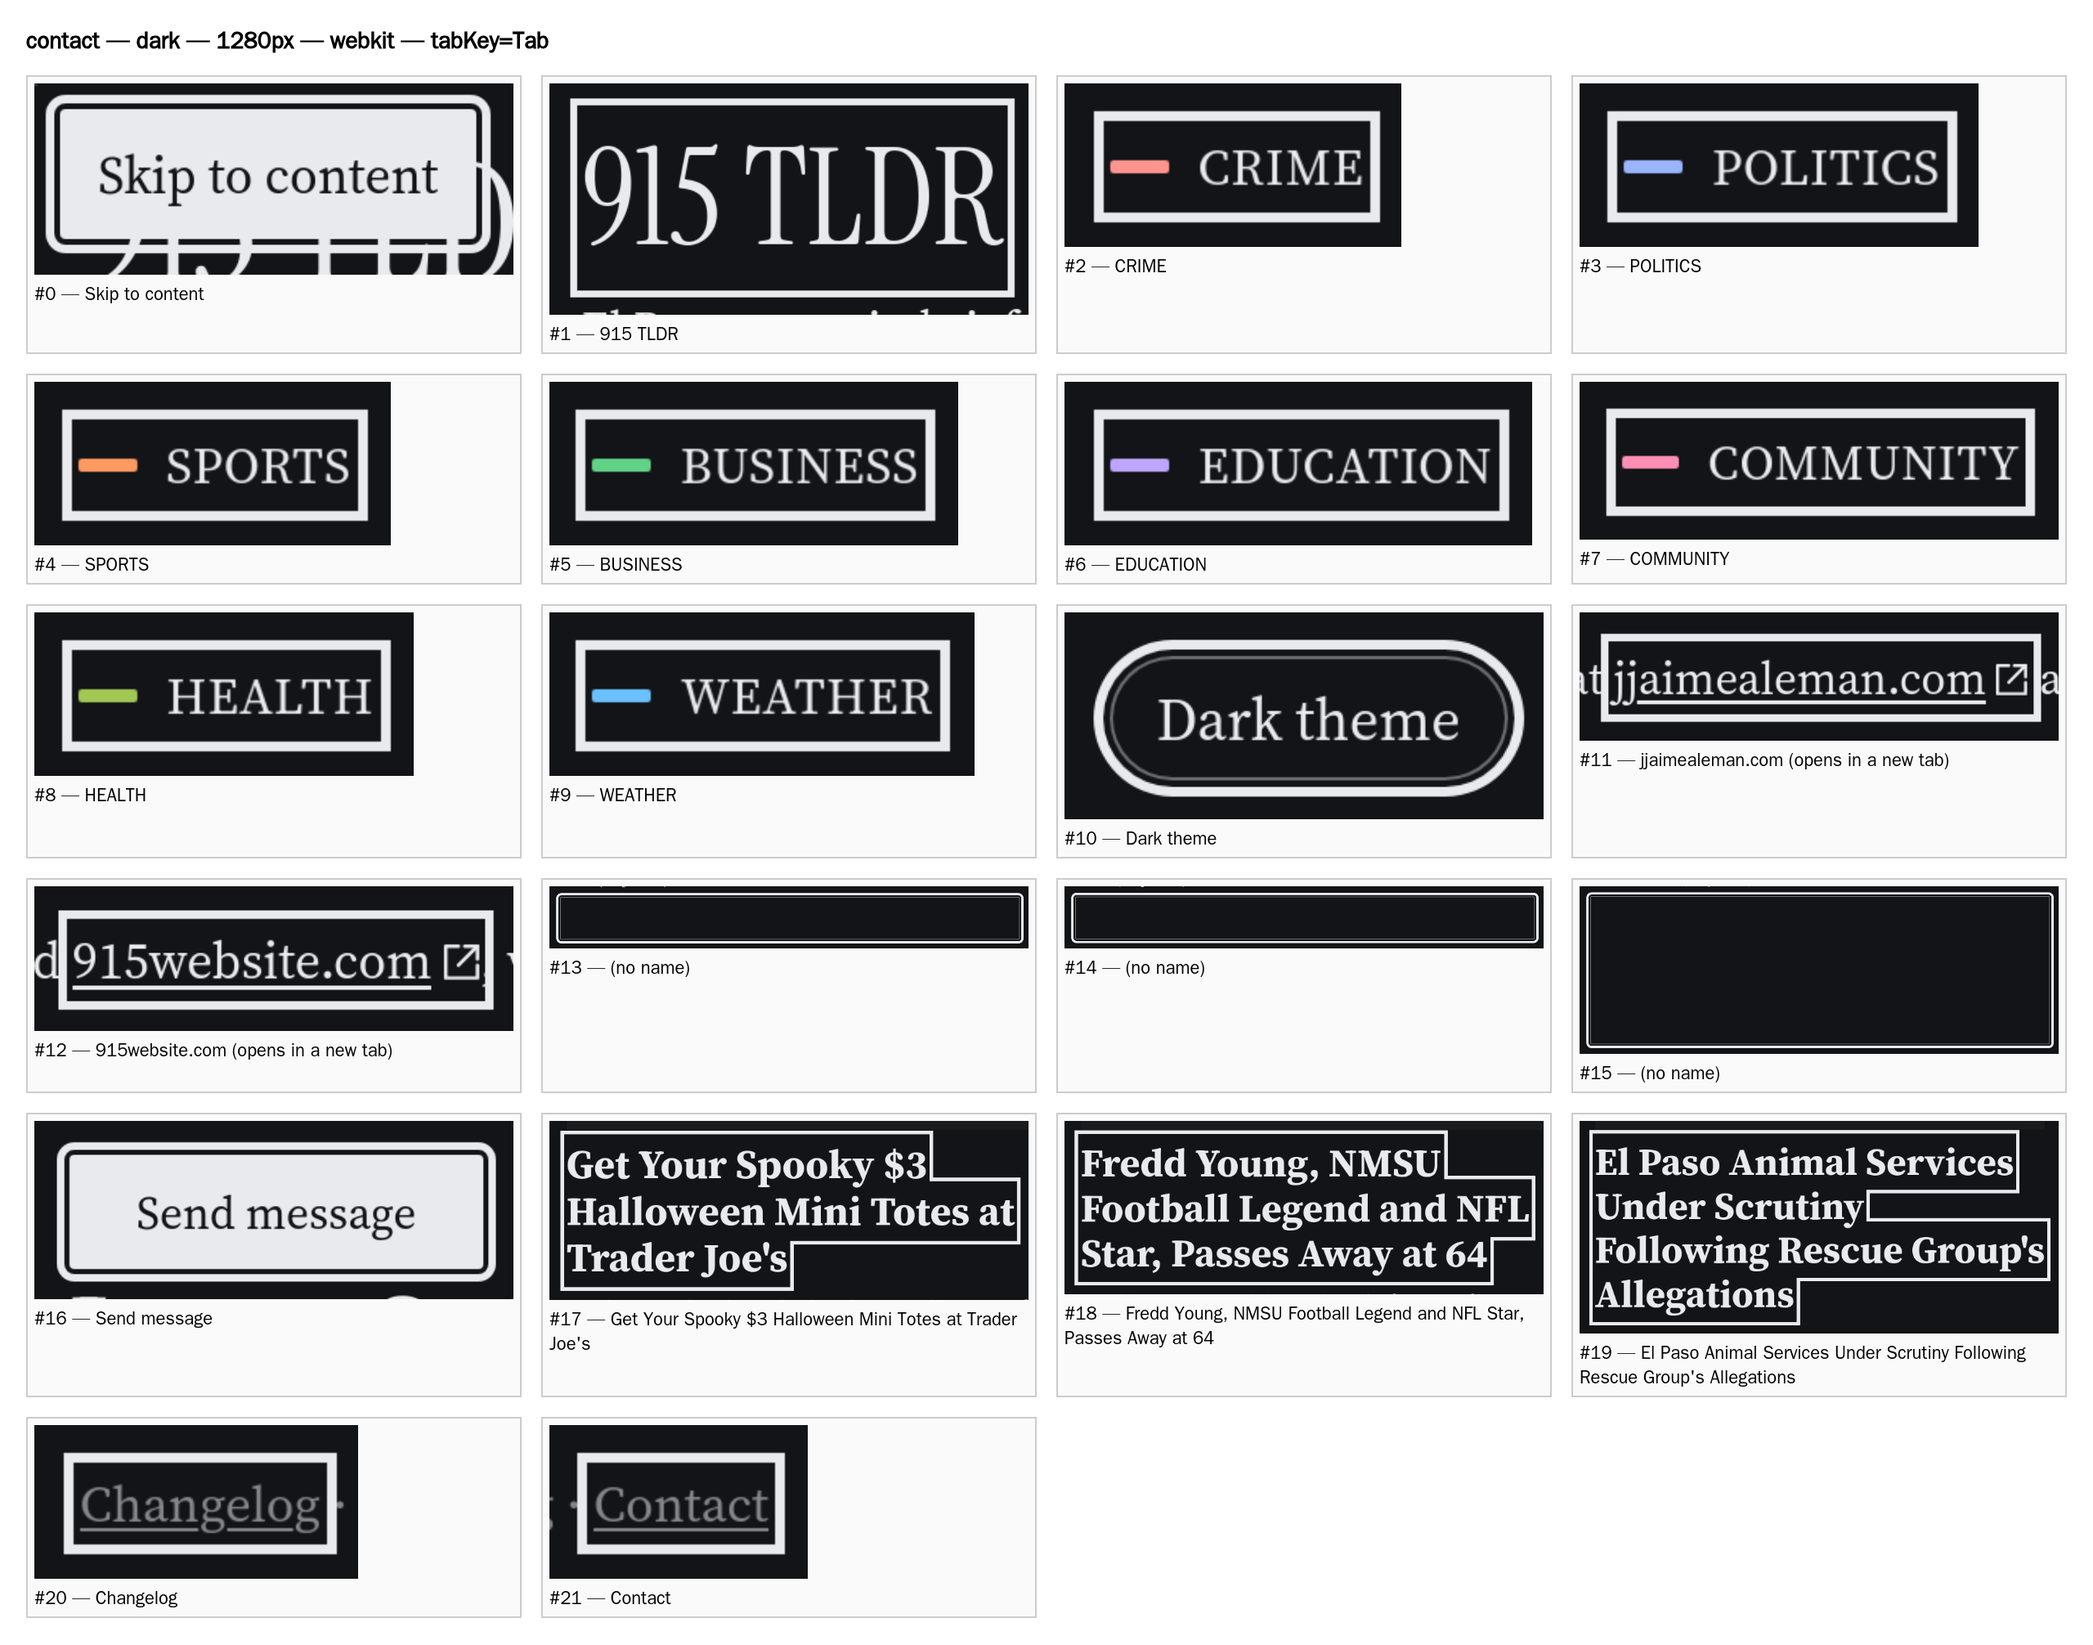
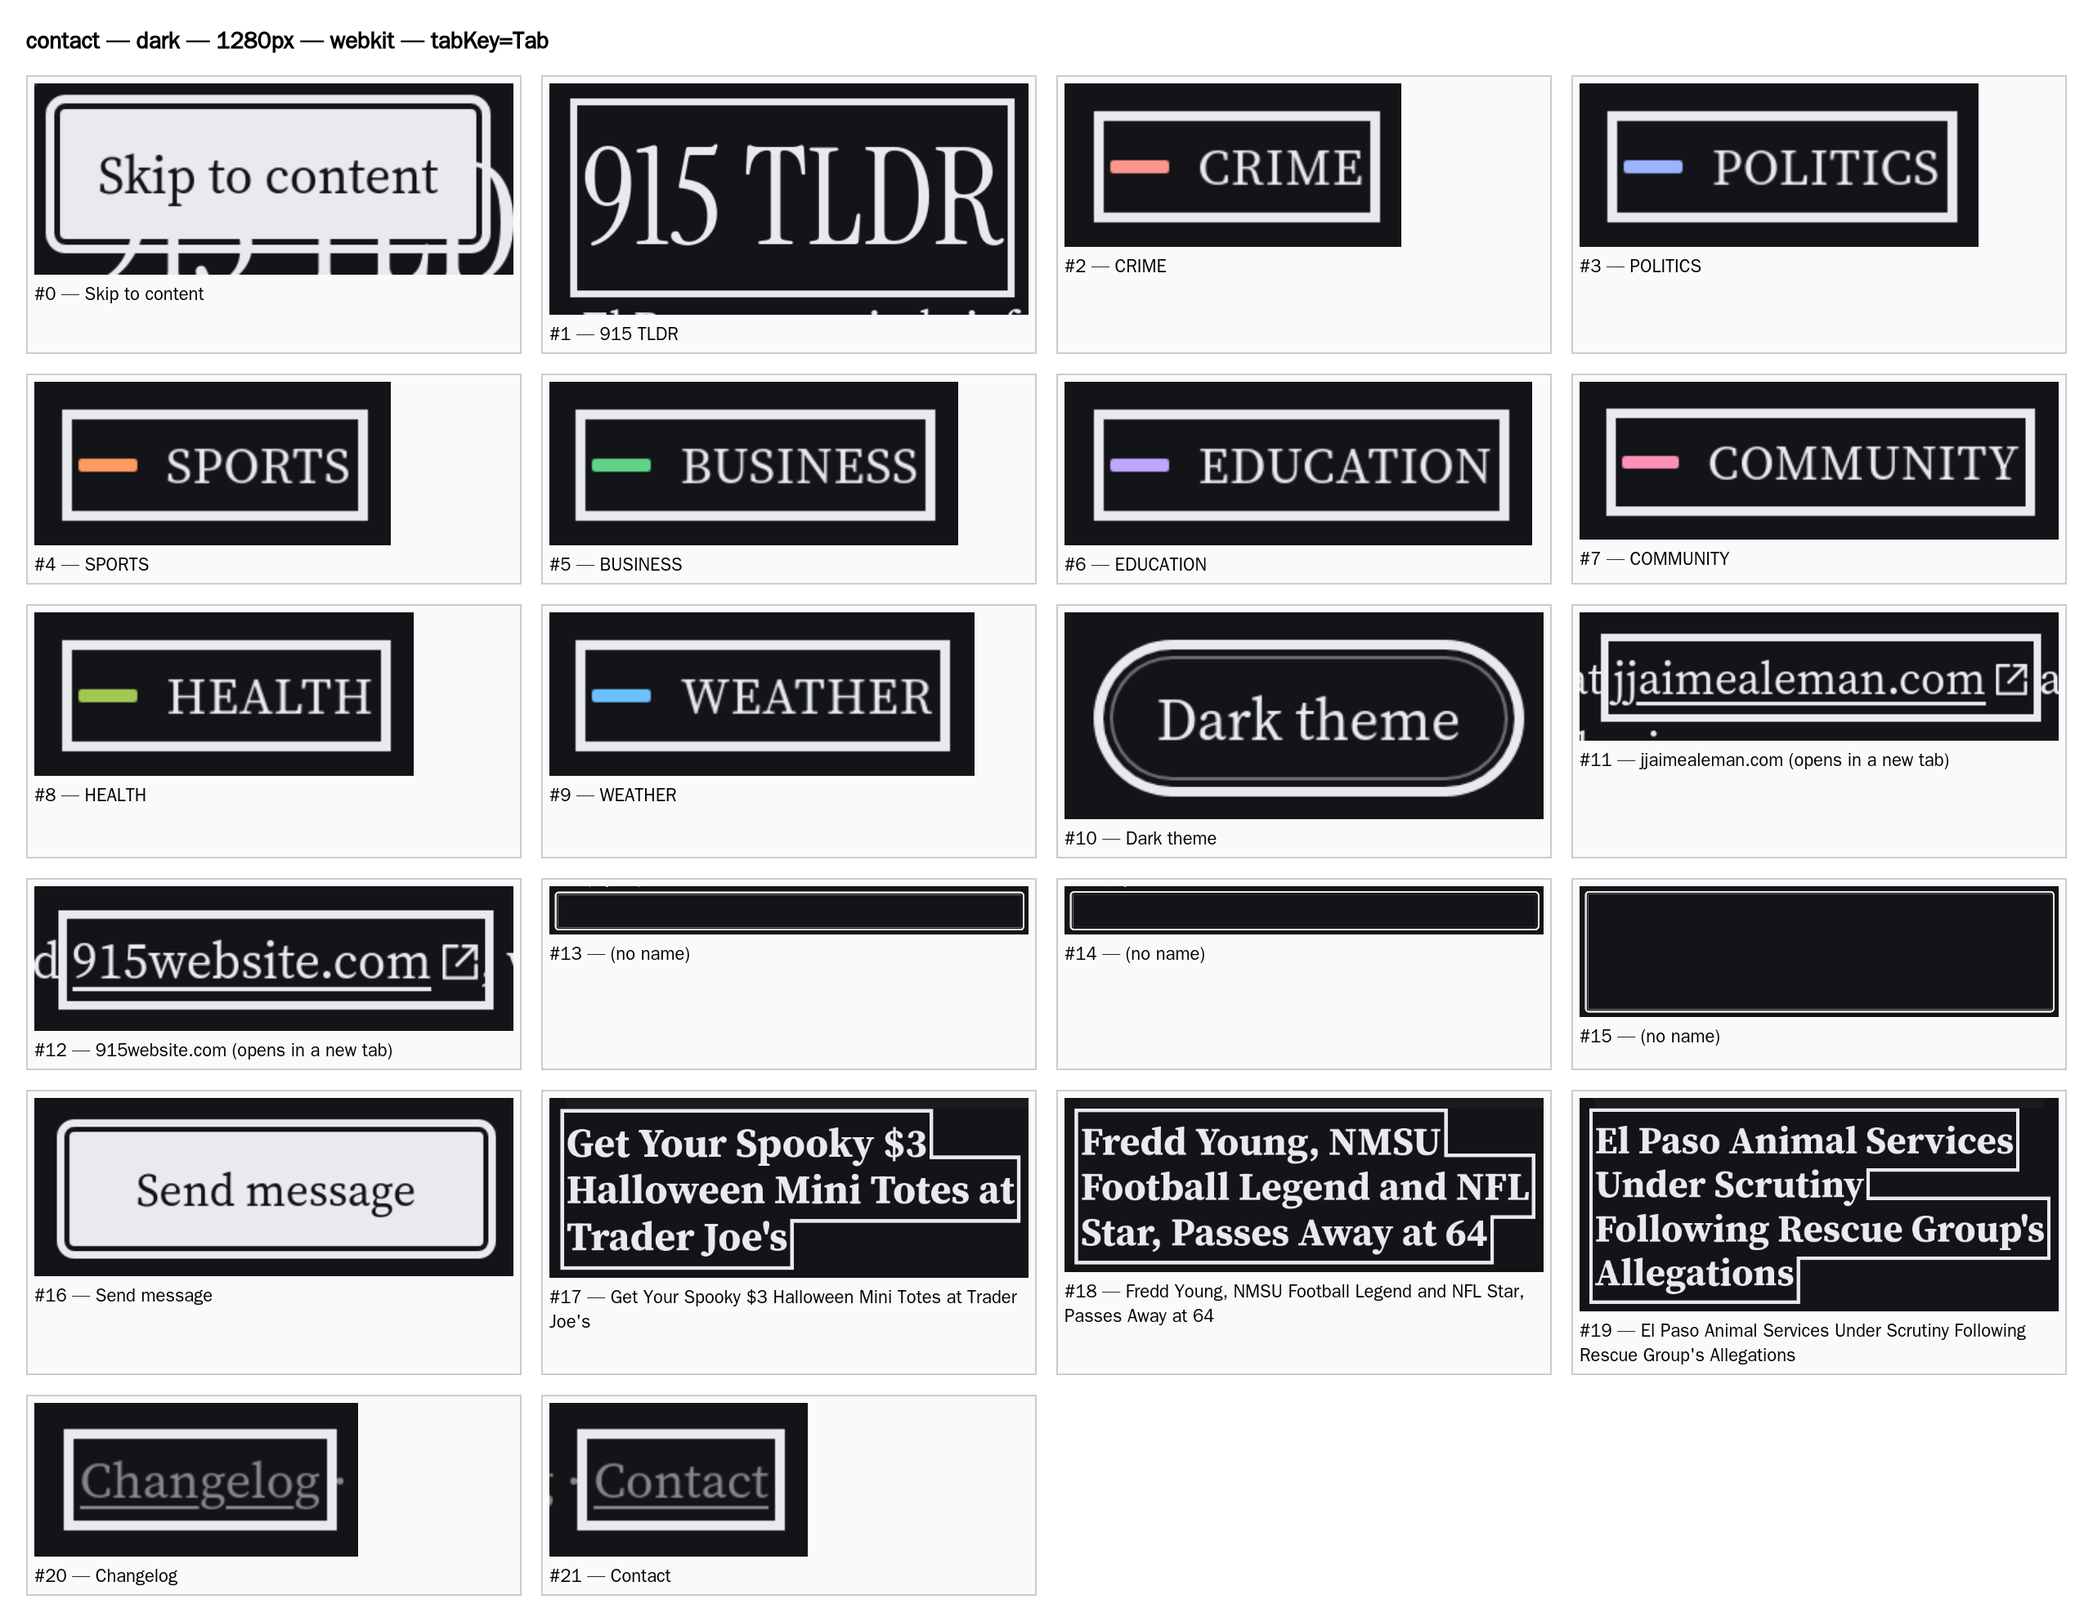
feat(01-20): contact page centred, full width at tablet, spacing bug fixed (revision request 5, Task 2)
- contact.html: h1, intro, links and form wrapped in div[data-contact-column],
  content and order byte-identical.
- style.css: new --column-narrow: 44rem token; [data-contact-intro] and
  form[data-contact-form] drop their base --measure max-width (full width
  below 64em, contact part of revision request 7); [data-contact-column] is
  centred with margin-inline:auto at >=64em only (width is in rem, so the
  01-07 ch/em-centring CLS rule does not apply); new
  [data-contact-column] + [data-grid-heading] rule adds space-7 top margin,
  fixing the Send-message-touches-Latest-Stories spacing bug at every width.
- layout.spec.ts: new "layout: contact" block proving the >=32px button/
  heading gap at all five widths, centring within 1px at >=1024px, full
  width at 320/768px, both engines.
- Measured real geometry confirms centring: column width matches 44rem
  exactly at the resolved root font-size (788.5px @1280px, 792.0px @1920px),
  left/right gaps equal in both themes/engines, button-to-heading gap ~54px.

diff --git a/design/tests/layout.spec.ts b/design/tests/layout.spec.ts
@@ -294,3 +294,104 @@ test.describe('layout: changelog', () => {
     }
   }
 });
+
+/**
+ * Contact layout (revision request 5 — centred column and the
+ * Send-message/Latest-Stories spacing bug; the contact part of revision
+ * request 7 — full width at 768px).
+ */
+
+async function readContactLayout(page: Page) {
+  const base = await readLayout(page);
+  const extra = await page.evaluate(() => {
+    function rect(el: Element | null) {
+      if (!el) return null;
+      const r = el.getBoundingClientRect();
+      return { left: r.left, right: r.right, top: r.top, bottom: r.bottom };
+    }
+    const column = document.querySelector('[data-contact-column]');
+    const submit = document.querySelector('[data-contact-form] button[type="submit"]');
+    const gridHeading = document.querySelector('[data-grid-heading]');
+    return {
+      columnRect: rect(column),
+      submitRect: rect(submit),
+      gridHeadingRect: rect(gridHeading),
+    };
+  });
+  return { ...base, ...extra };
+}
+
+const CONTACT_BREAKPOINT = 1024; // 64em at the default 16px root the media query resolves against
+
+test.describe('layout: contact', () => {
+  for (const { width, theme } of COMBOS) {
+    test(`no horizontal page scroll @${width}px ${theme} @c1`, async ({ page }) => {
+      await openPage(page, 'contact', { theme, width, height: HEIGHT });
+      expect(
+        await hasHorizontalScroll(page),
+        `contact @${width}px ${theme}: unexpected horizontal page scroll`
+      ).toBe(false);
+    });
+
+    test(`"Latest Stories" sits at least 32px below the Send message button @${width}px ${theme} @c1`, async ({
+      page,
+    }) => {
+      await openPage(page, 'contact', { theme, width, height: HEIGHT });
+      const layout = await readContactLayout(page);
+      expect(layout.submitRect, `contact @${width}px ${theme}: submit button not found`).not.toBeNull();
+      expect(layout.gridHeadingRect, `contact @${width}px ${theme}: [data-grid-heading] not found`).not.toBeNull();
+      const gap = layout.gridHeadingRect!.top - layout.submitRect!.bottom;
+      expect(
+        gap,
+        `contact @${width}px ${theme}: gap between Send message bottom and Latest Stories top is ${gap}, expected >= 32`
+      ).toBeGreaterThanOrEqual(32);
+    });
+
+    if (width >= CONTACT_BREAKPOINT) {
+      test(`contact column is centred and capped at --column-narrow @${width}px ${theme} @c1`, async ({ page }) => {
+        await openPage(page, 'contact', { theme, width, height: HEIGHT });
+        const layout = await readContactLayout(page);
+        expect(layout.columnRect, `contact @${width}px ${theme}: [data-contact-column] not found`).not.toBeNull();
+        const col = layout.columnRect!;
+
+        const leftGap = col.left - layout.mainContentLeft;
+        const rightGap = layout.mainContentRight - col.right;
+        expect(
+          Math.abs(leftGap - rightGap),
+          `contact @${width}px ${theme}: column not centred — left gap ${leftGap}, right gap ${rightGap}`
+        ).toBeLessThanOrEqual(1);
+
+        const columnNarrowPx = await page.evaluate(() => {
+          const probe = document.createElement('div');
+          probe.style.width = '44rem';
+          probe.style.position = 'absolute';
+          probe.style.visibility = 'hidden';
+          document.body.appendChild(probe);
+          const px = probe.getBoundingClientRect().width;
+          probe.remove();
+          return px;
+        });
+        expect(
+          col.right - col.left,
+          `contact @${width}px ${theme}: column width ${col.right - col.left} exceeds 44rem (${columnNarrowPx}) + 1`
+        ).toBeLessThanOrEqual(columnNarrowPx + 1);
+      });
+    } else {
+      test(`contact column spans the page column's full width @${width}px ${theme} @c1`, async ({ page }) => {
+        await openPage(page, 'contact', { theme, width, height: HEIGHT });
+        const layout = await readContactLayout(page);
+        expect(layout.columnRect, `contact @${width}px ${theme}: [data-contact-column] not found`).not.toBeNull();
+        const col = layout.columnRect!;
+
+        expect(
+          Math.abs(col.left - layout.mainContentLeft),
+          `contact @${width}px ${theme}: column left ${col.left} not within 1px of main content-box left ${layout.mainContentLeft}`
+        ).toBeLessThanOrEqual(1);
+        expect(
+          Math.abs(col.right - layout.mainContentRight),
+          `contact @${width}px ${theme}: column right ${col.right} not within 1px of main content-box right ${layout.mainContentRight}`
+        ).toBeLessThanOrEqual(1);
+      });
+    }
+  }
+});

diff --git a/design/mockups/style.css b/design/mockups/style.css
@@ -224,6 +224,7 @@
   --rule-thin: 1px;
   --rule-thick: 4px;
   --rail-width: 20rem;
+  --column-narrow: 44rem;
 
   /* D-GAP-B (owner decision, 2026-09-17, 01-APPROVAL.md): headlines move off */
   /* the display face onto Source Serif 4 Bold. Instrument Serif ships one */
@@ -1043,6 +1044,19 @@ body[data-page="article"] main > article [data-frame] {
   body[data-page="changelog"] [data-layout="with-rail"] > [data-reading-column] {
     max-width: none;
   }
+
+  /* Revision request 5 ("looks great, should be centerer?"). Width is in
+     rem on purpose — the 01-07 house rule against centring a ch/em-width
+     container with margin:auto (font-swap CLS risk) does not apply here,
+     since --column-narrow is a fixed rem value with no font-relative
+     component. Below 64em the column spans the full page column
+     (contact part of revision request 7), matching
+     [data-contact-intro]/form[data-contact-form] losing their own base
+     max-width above. */
+  [data-contact-column] {
+    max-width: var(--column-narrow);
+    margin-inline: auto;
+  }
 }
 
 /* ==========================================================================
@@ -1129,7 +1143,6 @@ body[data-page="article"] main > article [data-frame] {
    ========================================================================== */
 
 [data-contact-intro] {
-  max-width: var(--measure);
   margin: 0 0 var(--space-5);
 }
 
@@ -1137,8 +1150,13 @@ body[data-page="article"] main > article [data-frame] {
   margin: 0 0 var(--space-6);
 }
 
-form[data-contact-form] {
-  max-width: var(--measure);
+/* Revision request 5 (spacing bug): [data-grid-heading] had no top margin
+   of its own, so "Send message" touched "Latest Stories" directly. Scoped
+   to the sibling combinator (not a blanket [data-grid-heading] rule) so
+   article's rail headings, which already carry their own [data-rail]
+   spacing, are untouched. Applies at every width, not just >=64em. */
+[data-contact-column] + [data-grid-heading] {
+  margin-top: var(--space-7);
 }
 
 [data-field] {

diff --git a/design/mockups/contact.html b/design/mockups/contact.html
@@ -69,6 +69,7 @@
 <button type="button" data-theme-toggle hidden aria-pressed="false" data-i18n="theme-toggle">Dark theme</button>
 
 <main id="main" tabindex="-1">
+<div data-contact-column>
   <h1>Contact</h1>
 
   <p data-contact-intro>I'm Jaime Aleman, a web developer here in El Paso, and I built 915 TLDR myself. Every summary on this site is written by AI from reporting by KTSM, KVIA and other local outlets — I did not report any of it, and I say so plainly on every story. What I do is pull the day's local news into one place, tag and de-duplicate it, and publish it free and without ads, in the open, with every change documented on the changelog.</p>
@@ -98,6 +99,7 @@
 
     <button type="submit" data-i18n="contact-submit">Send message</button>
   </form>
+</div>
 
   <h2 data-grid-heading>Latest Stories</h2>
   <section data-grid aria-label="Latest stories">

diff --git a/changelog/2026-09-17-1635_01-20-contact-page-centred-full-width-at-tablet-sp.md b/changelog/2026-09-17-1635_01-20-contact-page-centred-full-width-at-tablet-sp.md
@@ -1,0 +1,47 @@
+# 2026-09-17 - Contact page centred, full width at tablet, spacing bug fixed (revision request 5, Task 2)
+
+**Keywords:** [FEATURE] [BUG_FIX] [TESTING] [STYLING]
+**Session:** Afternoon
+**Commit:** find with `git log --diff-filter=A -1 --format=%H -- changelog/2026-09-17-1635_01-20-contact-page-centred-full-width-at-tablet-sp.md`
+
+## What Changed
+
+- File: `design/mockups/contact.html`
+  - h1, the intro paragraph, the direct-links paragraph and the form are wrapped in a new `div[data-contact-column]`, content and order byte-identical to before; the "Latest Stories" heading and grid stay after the wrapper, unchanged.
+- File: `design/mockups/style.css`
+  - New token `--column-narrow: 44rem`.
+  - `[data-contact-intro]` and `form[data-contact-form]` drop their base `max-width: var(--measure)` — full width below 64em (contact part of revision request 7).
+  - New rule inside the existing `@media (min-width: 64em)` block: `[data-contact-column] { max-width: var(--column-narrow); margin-inline: auto; }`. The width is a fixed `rem` value on purpose — the 01-07 house rule against centring a `ch`/`em`-relative container with `margin: auto` (font-swap CLS risk) does not apply to a `rem` value, which has no font-relative component.
+  - New rule, unscoped to any media query (applies at every width): `[data-contact-column] + [data-grid-heading] { margin-top: var(--space-7); }` — `[data-grid-heading]` previously had no top margin of its own, so the "Send message" button touched "Latest Stories" directly.
+- File: `design/tests/layout.spec.ts` (new `describe('layout: contact')`, `@c1`)
+  - At every width (320/768/1024/1280/1920px, plus 1280px dark), both engines: the gap between the Send-message button's bottom and the "Latest Stories" heading's top is `>= 32px`; no horizontal page scroll.
+  - At `>=1024px`: the column is centred within 1px (`|leftGap - rightGap| <= 1`) and its width is at most `44rem` (in resolved pixels) `+ 1`.
+  - At 320/768px: the column's left and right edges are within 1px of the main content box.
+
+## Why
+
+Closes revision request 5 from `01-APPROVAL.md`: "looks great, should be centerer?" plus the owner's screenshot showing the "Send message" button touching "Latest Stories" directly below it. Also closes the contact half of revision request 7 (full width at 768px).
+
+## Issues Encountered
+
+None.
+
+## Dependencies
+
+No new dependencies.
+
+## Testing Notes
+
+- What was tested: `node design/scripts/pw.mjs --project=all design/tests/layout.spec.ts` (48/48, both engines, article + changelog + contact); `MOCKUP_PAGES=contact node design/scripts/pw.mjs --project=all design/tests/keyboard-walk.spec.ts` (8/8 x2, both engines, including the contact-form test); `MOCKUP_PAGES=contact node design/scripts/pw.mjs --project=all design/tests/content.spec.ts` (25/25 x2, both engines); `MOCKUP_PAGES=contact node design/scripts/pw.mjs --project=all design/tests/structure.spec.ts` (20/20 x2, both engines); `MOCKUP_PAGES=contact,changelog node design/scripts/pw.mjs --project=all design/tests/spanish-overflow.spec.ts` (12/12 x2, both engines) — all pass. A scripted measurement (both engines, both themes, 1280/1920px) confirmed real centring: column width matches 44rem exactly at the resolved root font-size (788.5px @1280px, 792.0px @1920px, both engines), left gap equals right gap exactly in every combination, and the button-to-heading gap measures ~54px (well above the 32px floor).
+- What wasn't tested: a literal human eyeball of the rendered page — the owner's own visual sign-off on "does the centred column look right" is unautomatable by design (the plan's own human-check); the scripted measurement above is offered as the strongest available substitute evidence.
+
+## Next Steps
+
+- [ ] Owner: view contact.html at 1280 and 1920, both themes, and confirm the column reads as centred with comfortable space before "Latest Stories" (see measured geometry above)
+- [ ] Write 01-20-SUMMARY.md, update STATE.md/ROADMAP.md, complete the plan
+
+---
+
+**Branch:** feature/phase-01
+**Issue:** N/A
+**Impact:** HIGH — closes the contact centring and spacing-bug revision requests, plus the contact half of the 768px full-width request, verified in real browser geometry at five widths, two engines

diff --git a/changelog/README.md b/changelog/README.md
@@ -10,6 +10,7 @@ Entries are named `YYYY-MM-DD-HHMM_slug.md` and grouped by month, newest first.
 
 | Date | Entry | Keywords |
 |------|-------|----------|
+| 2026-09-17 | [Contact Page Centred, Full Width at Tablet, Spacing Bug Fixed (Revision Request 5, Task 2)](2026-09-17-1635_01-20-contact-page-centred-full-width-at-tablet-sp.md) | `[FEATURE]` `[BUG_FIX]` `[TESTING]` `[STYLING]` |
 | 2026-09-17 | [Changelog Dispatch Placement Fixed, Adopts Rail Layout (Revision Request 4, Task 1)](2026-09-17-1631_01-20-changelog-dispatch-placement-fixed-adopts-ra.md) | `[FEATURE]` `[BUG_FIX]` `[TESTING]` `[STYLING]` |
 | 2026-09-17 | [Rail Content Integrity and the Spanish Rail Heading (Task 2)](2026-09-17-1623_01-19-rail-content-integrity-and-the-spanish-rail-.md) | `[FEATURE]` `[TESTING]` |
 | 2026-09-17 | [Right Rail on the Article Page (Revision Request 3, Task 1)](2026-09-17-1620_01-19-right-rail-on-the-article-page-revision-requ.md) | `[FEATURE]` `[TESTING]` `[STYLING]` |
